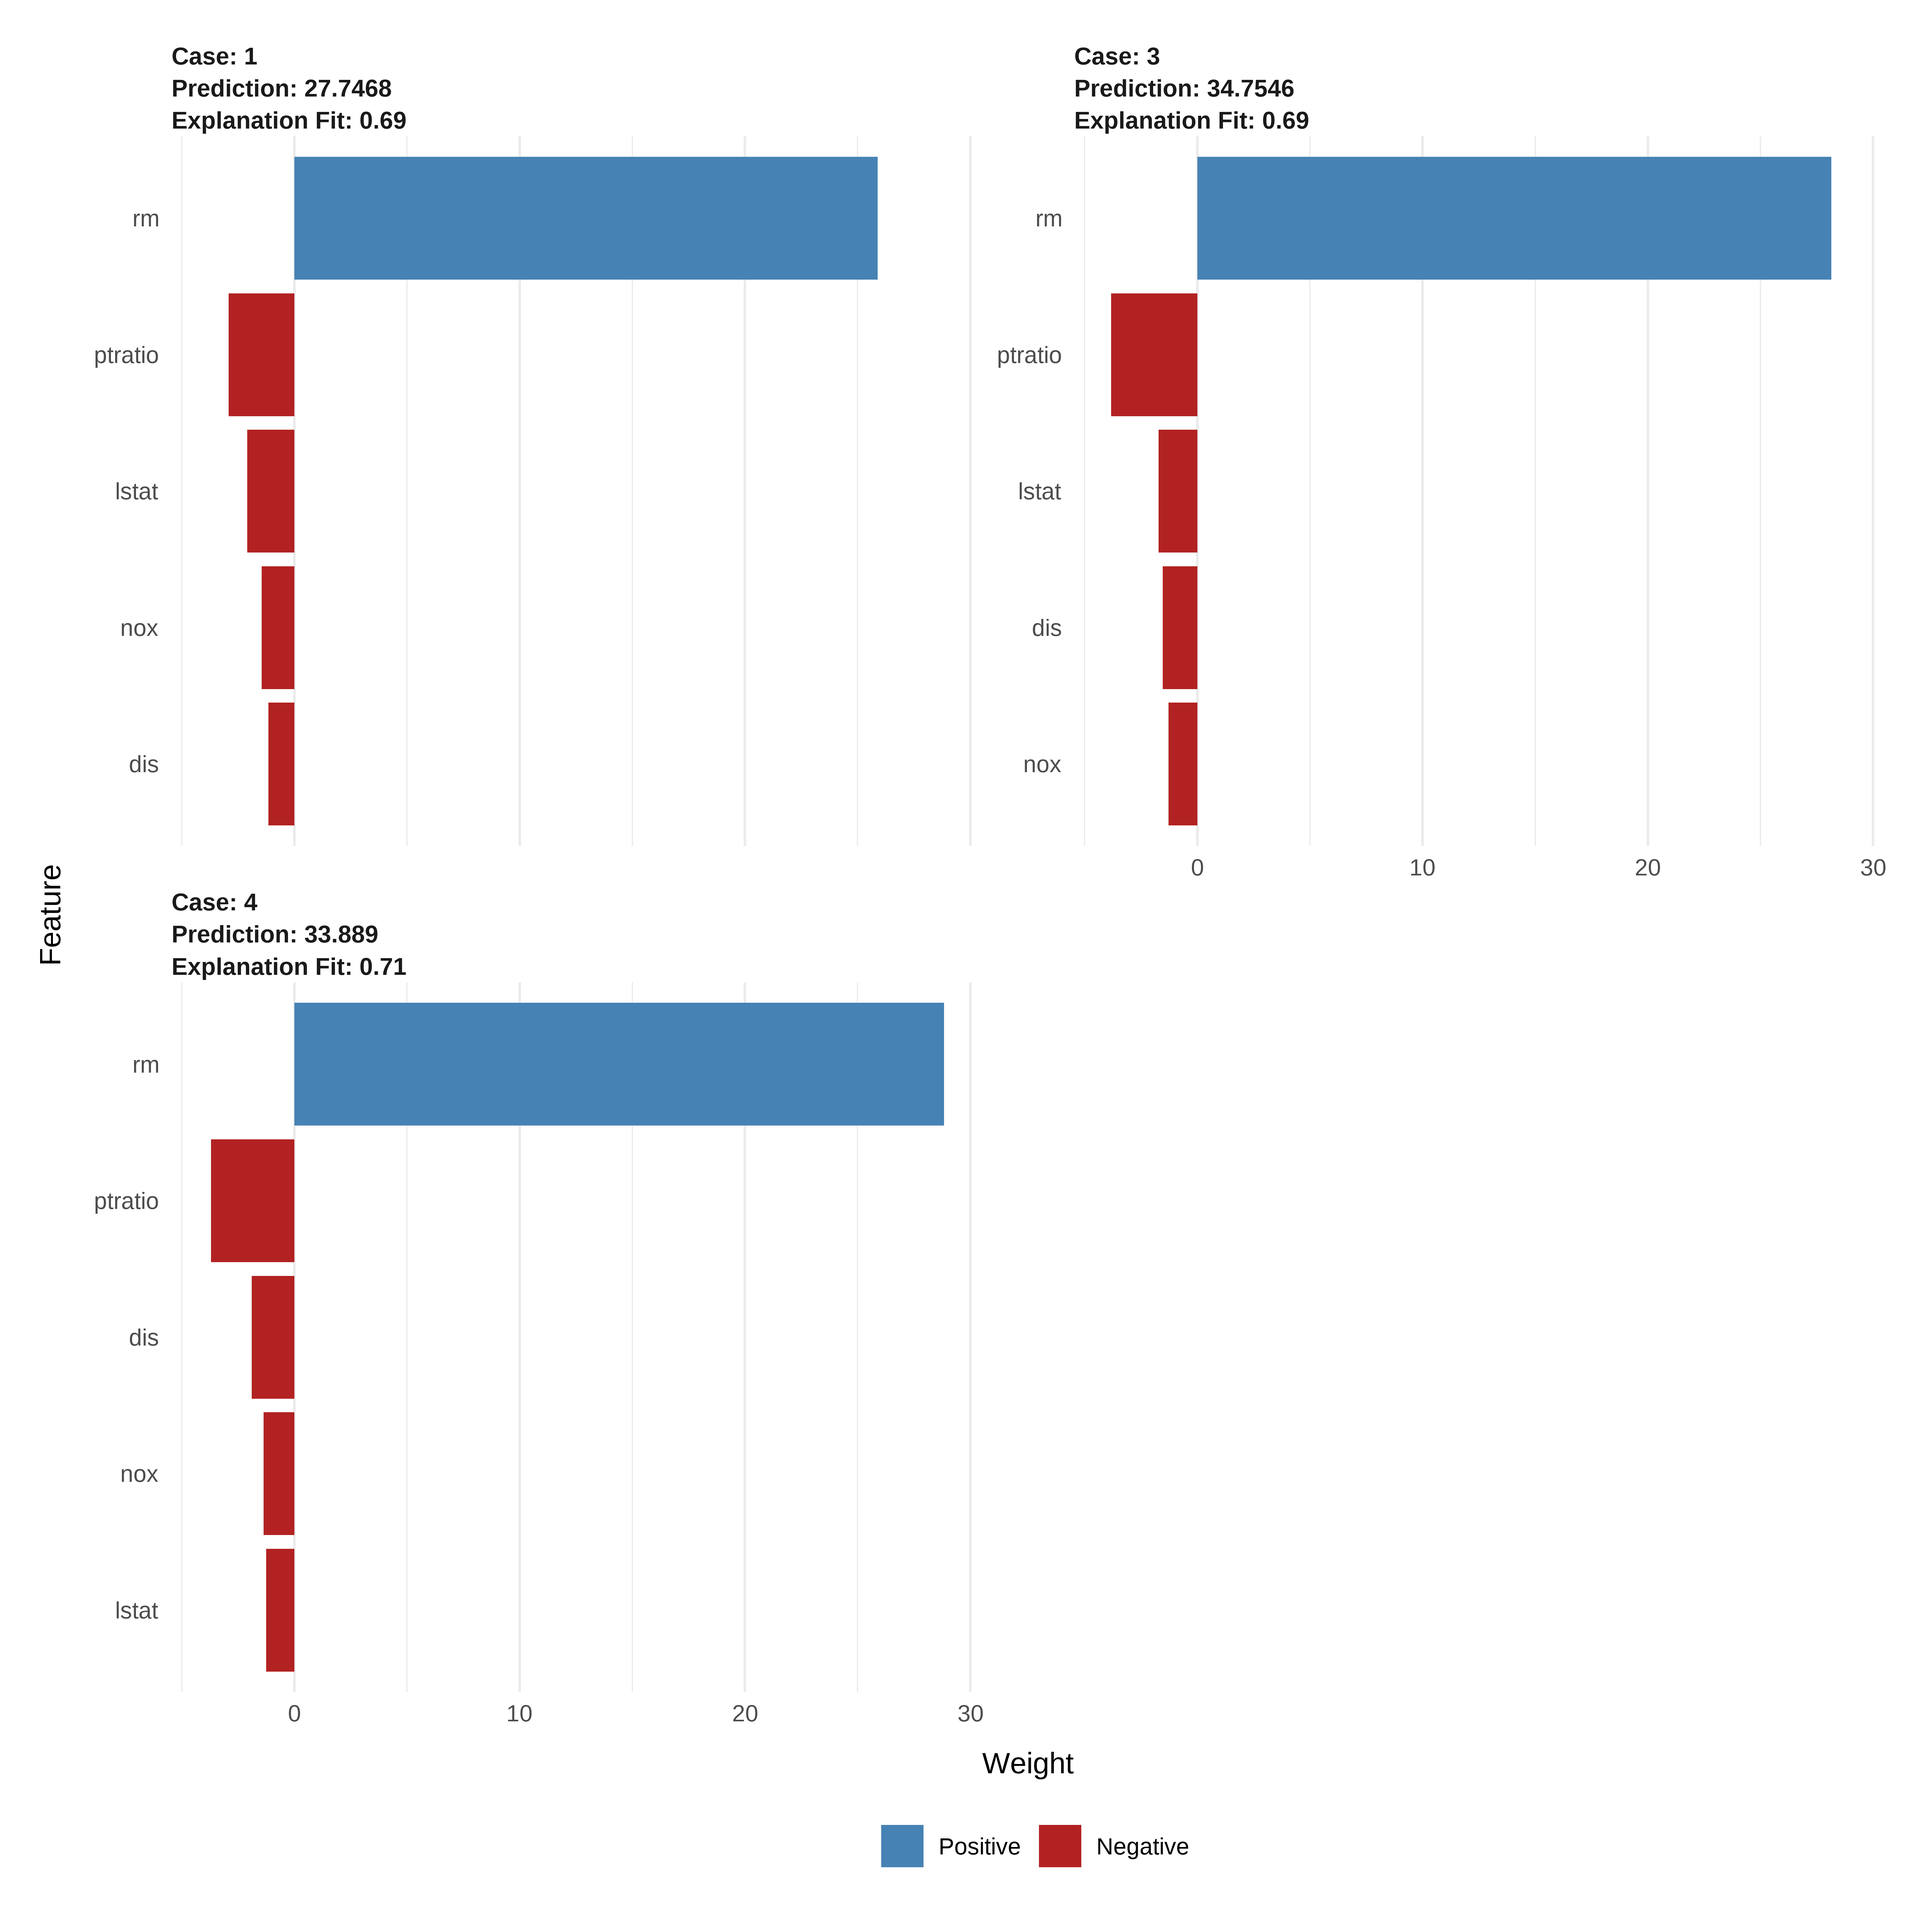
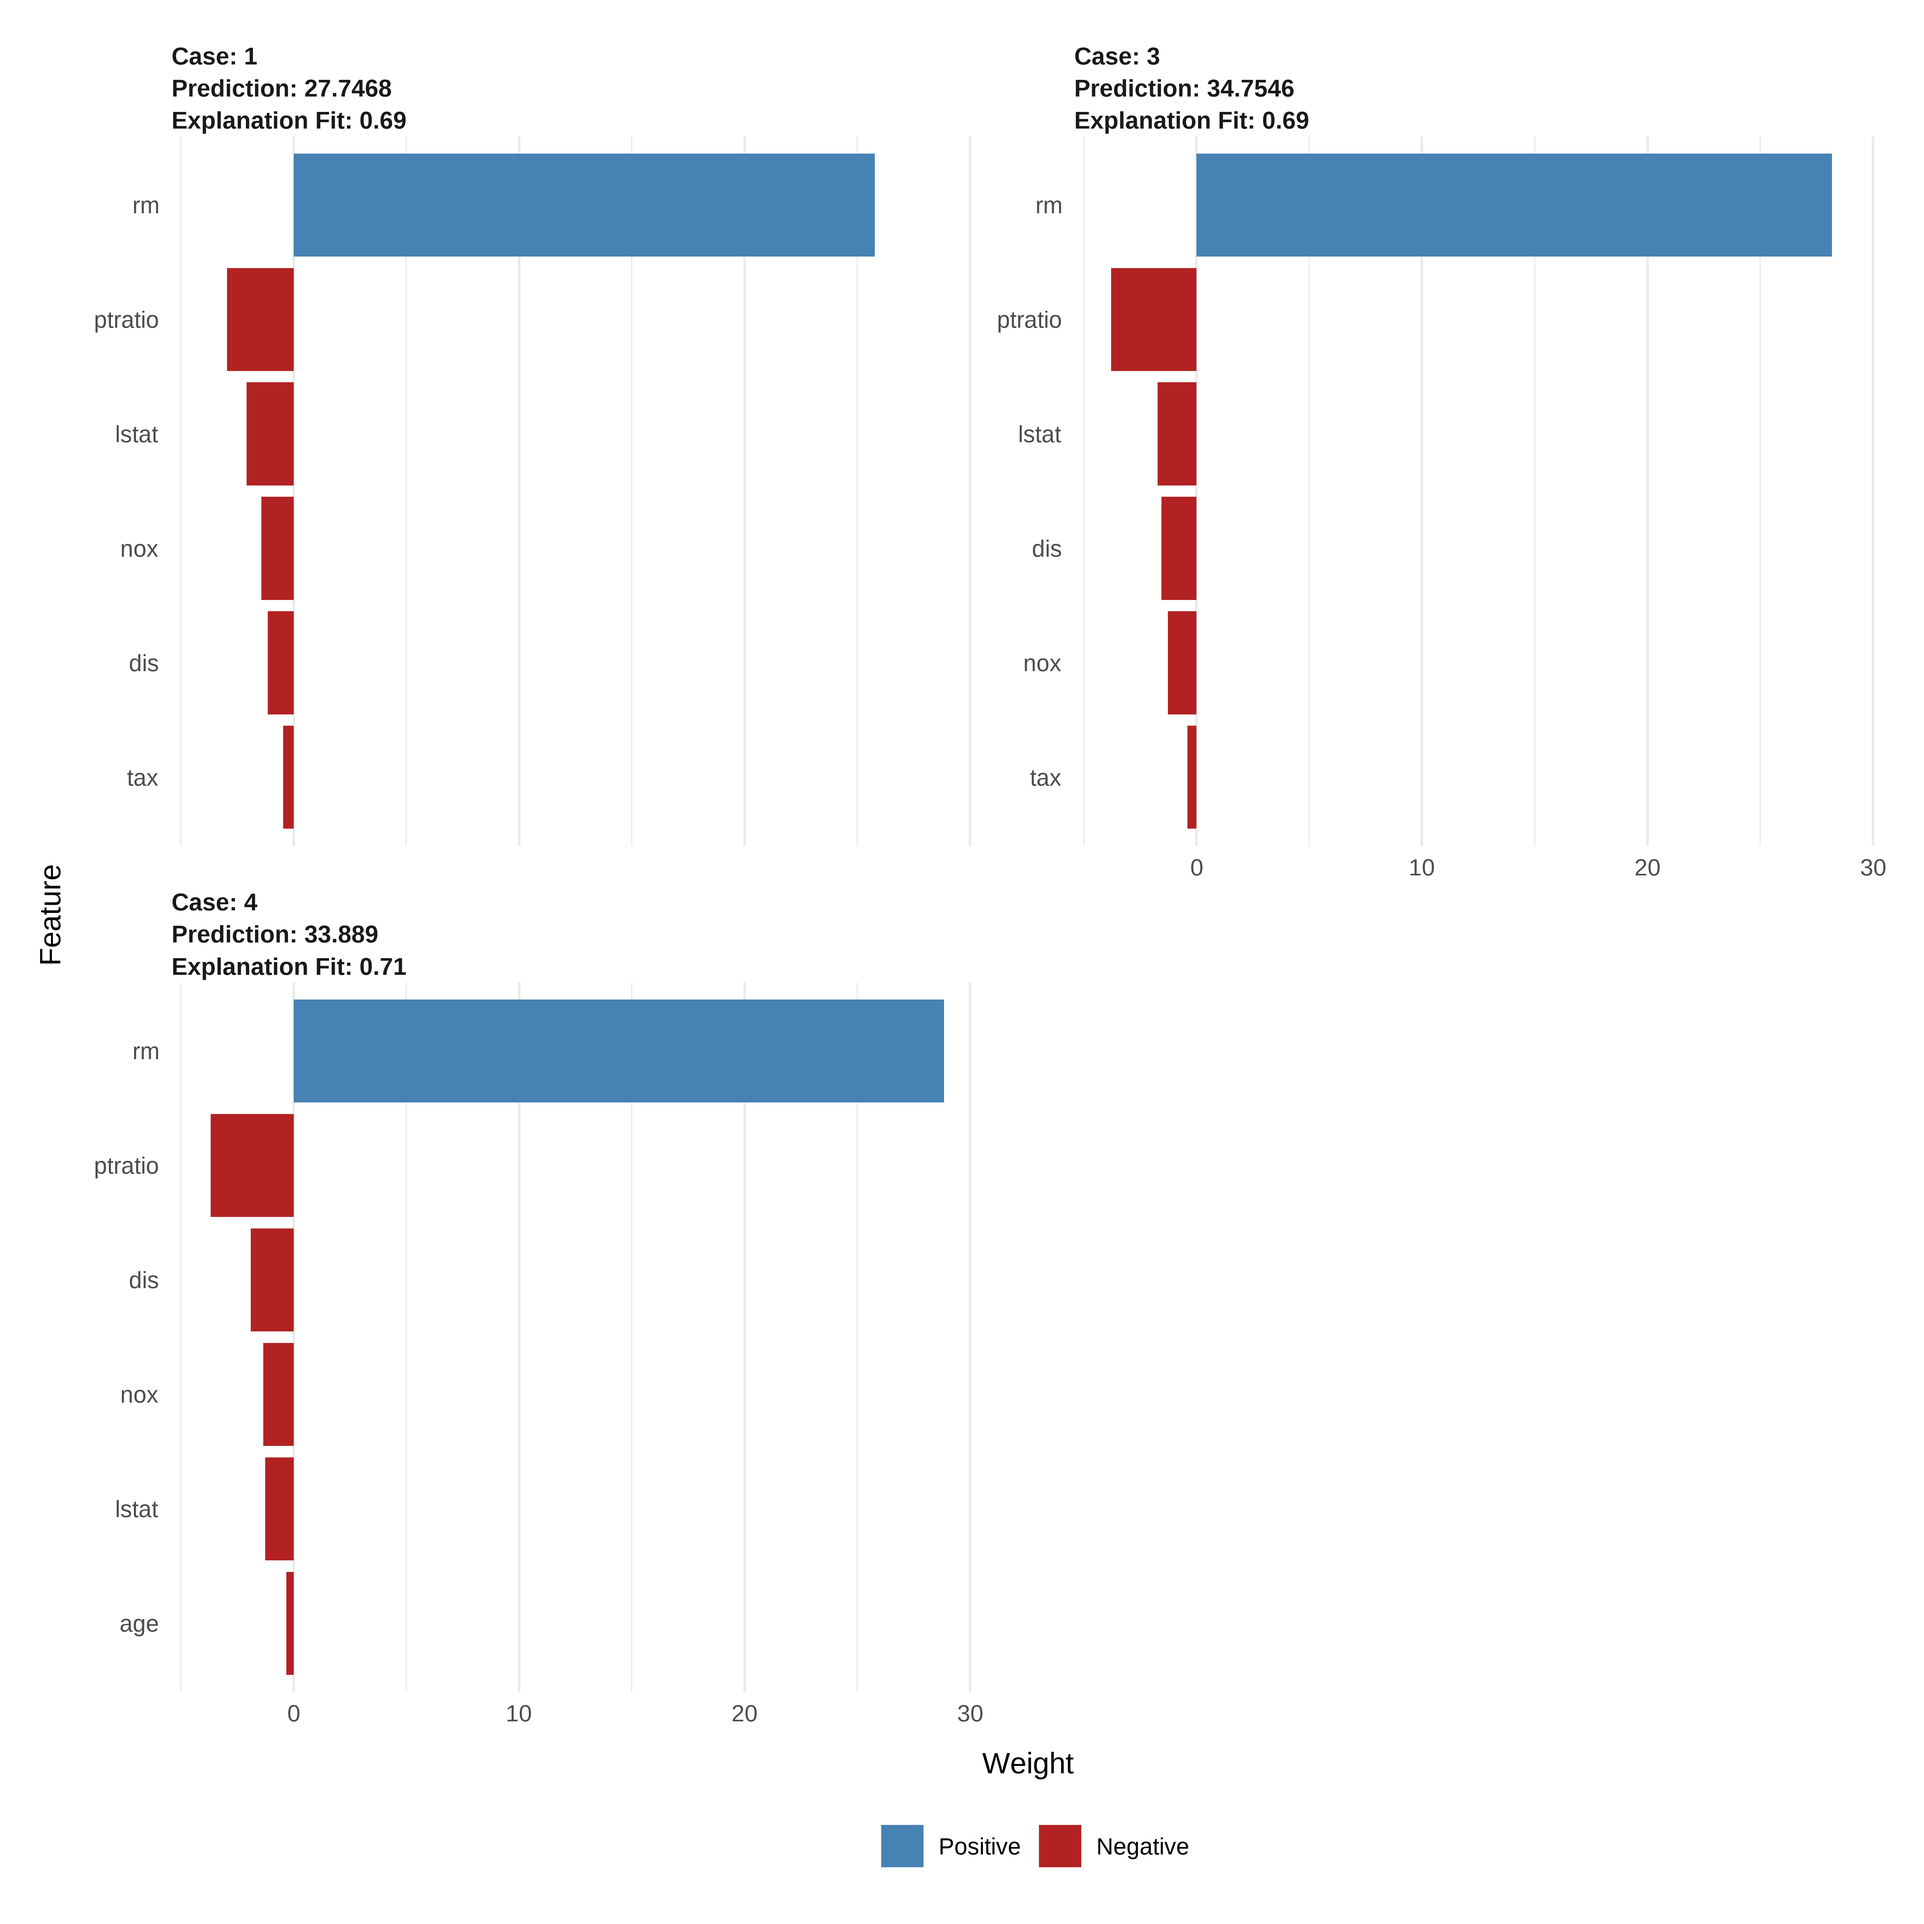
at12-11

diff --git a/_site/semanas/Aula11.2A.html b/_site/semanas/Aula11.2A.html
@@ -5,7 +5,7 @@
 <meta name="generator" content="quarto-1.7.33">
 <meta name="viewport" content="width=device-width, initial-scale=1.0, user-scalable=yes">
 <meta name="author" content="Ricardo Accioly">
-<meta name="dcterms.date" content="2025-11-11">
+<meta name="dcterms.date" content="2025-11-12">
 <title>Arvores de Regressão - Random Forest – IME05-12547</title>
 <style>
 code{white-space: pre-wrap;}
@@ -570,7 +570,7 @@ pre > code.sourceCode > span > a:first-child::before { text-decoration: underlin
     <div>
     <div class="quarto-title-meta-heading">Published</div>
     <div class="quarto-title-meta-contents">
-      <p class="date">November 11, 2025</p>
+      <p class="date">November 12, 2025</p>
     </div>
   </div>
   
@@ -843,17 +843,17 @@ R squared (OOB):                  0.8584414 </code></pre>
 <span><span class="va">explicacoes</span> <span class="op">&lt;-</span> <span class="fu"><a href="https://lime.data-imaginist.com/reference/explain.html">explain</a></span><span class="op">(</span></span>
 <span>  <span class="va">conj_teste</span><span class="op">[</span><span class="fl">1</span><span class="op">:</span><span class="fl">3</span>, <span class="op">]</span>,</span>
 <span>  explainer <span class="op">=</span> <span class="va">explainer</span>,</span>
-<span>  n_features <span class="op">=</span> <span class="fl">5</span>,</span>
+<span>  n_features <span class="op">=</span> <span class="fl">6</span>,</span>
 <span>  n_labels <span class="op">=</span> <span class="fl">1</span></span>
 <span><span class="op">)</span></span>
 <span></span>
 <span><span class="co"># Dados Analisados</span></span>
-<span><span class="va">conj_teste</span><span class="op">[</span><span class="fl">1</span><span class="op">:</span><span class="fl">3</span>, <span class="fu"><a href="https://rdrr.io/r/base/c.html">c</a></span><span class="op">(</span><span class="st">"medv"</span>, <span class="st">"rm"</span>, <span class="st">"ptratio"</span>, <span class="st">"nox"</span>, <span class="st">"dis"</span>, <span class="st">"lstat"</span>, <span class="st">"tax"</span><span class="op">)</span><span class="op">]</span></span></code><button title="Copy to Clipboard" class="code-copy-button"><i class="bi"></i></button></pre></div>
+<span><span class="va">conj_teste</span><span class="op">[</span><span class="fl">1</span><span class="op">:</span><span class="fl">3</span>, <span class="fu"><a href="https://rdrr.io/r/base/c.html">c</a></span><span class="op">(</span><span class="st">"medv"</span>, <span class="st">"lstat"</span>,<span class="st">"rm"</span>, <span class="st">"nox"</span>,<span class="st">"crim"</span>, <span class="st">"dis"</span>, <span class="st">"age"</span>, <span class="st">"indus"</span>, <span class="st">"ptratio"</span>, <span class="st">"tax"</span><span class="op">)</span><span class="op">]</span></span></code><button title="Copy to Clipboard" class="code-copy-button"><i class="bi"></i></button></pre></div>
 <div class="cell-output cell-output-stdout">
-<pre><code>  medv    rm ptratio   nox    dis lstat tax
-1 24.0 6.575    15.3 0.538 4.0900  4.98 296
-3 34.7 7.185    17.8 0.469 4.9671  4.03 242
-4 33.4 6.998    18.7 0.458 6.0622  2.94 222</code></pre>
+<pre><code>  medv lstat    rm   nox    crim    dis  age indus ptratio tax
+1 24.0  4.98 6.575 0.538 0.00632 4.0900 65.2  2.31    15.3 296
+3 34.7  4.03 7.185 0.469 0.02729 4.9671 61.1  7.07    17.8 242
+4 33.4  2.94 6.998 0.458 0.03237 6.0622 45.8  2.18    18.7 222</code></pre>
 </div>
 <div class="sourceCode" id="cb28"><pre class="downlit sourceCode r code-with-copy"><code class="sourceCode R"><span><span class="co"># Visualizar explicações</span></span>
 <span><span class="fu"><a href="https://lime.data-imaginist.com/reference/plot_features.html">plot_features</a></span><span class="op">(</span><span class="va">explicacoes</span><span class="op">)</span></span></code><button title="Copy to Clipboard" class="code-copy-button"><i class="bi"></i></button></pre></div>
